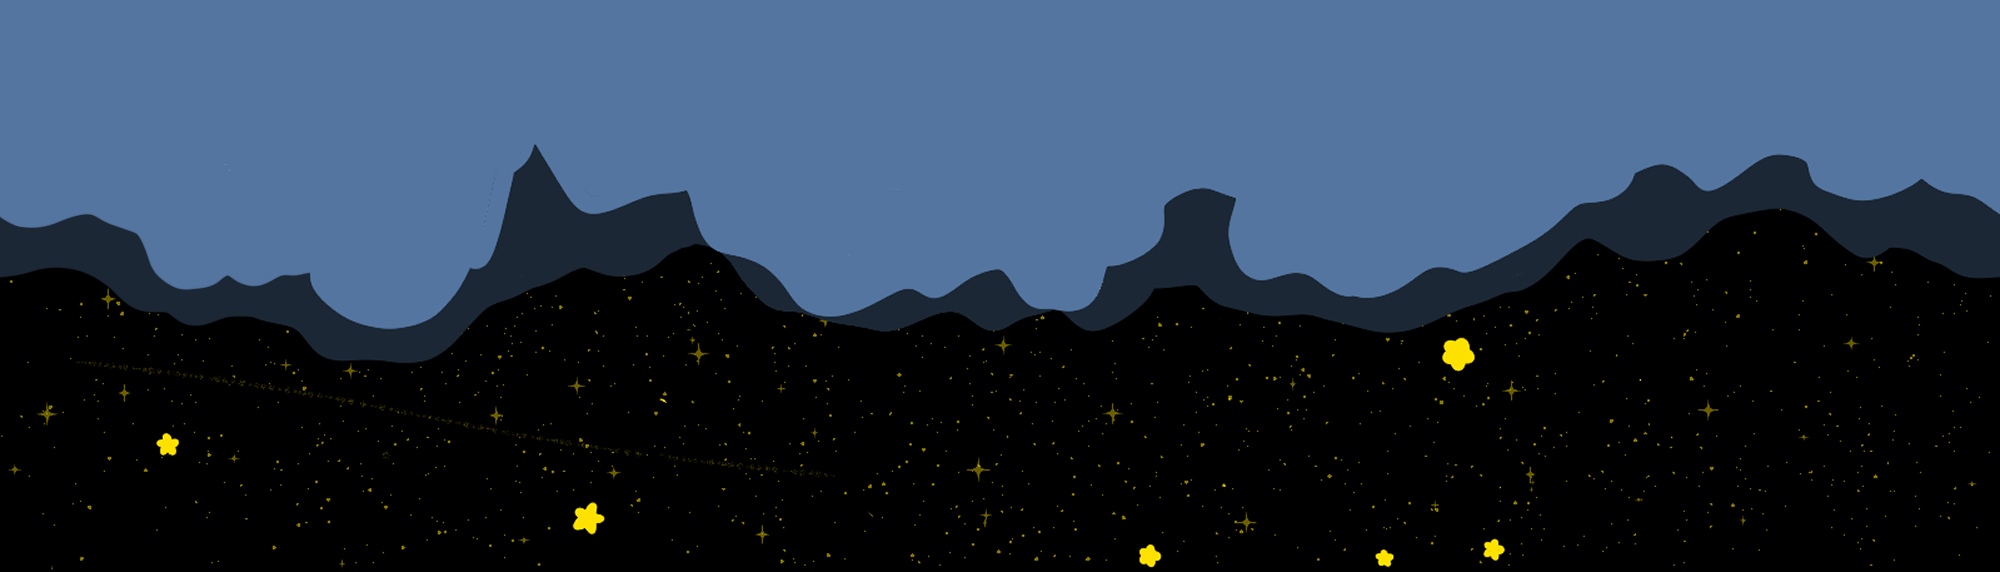
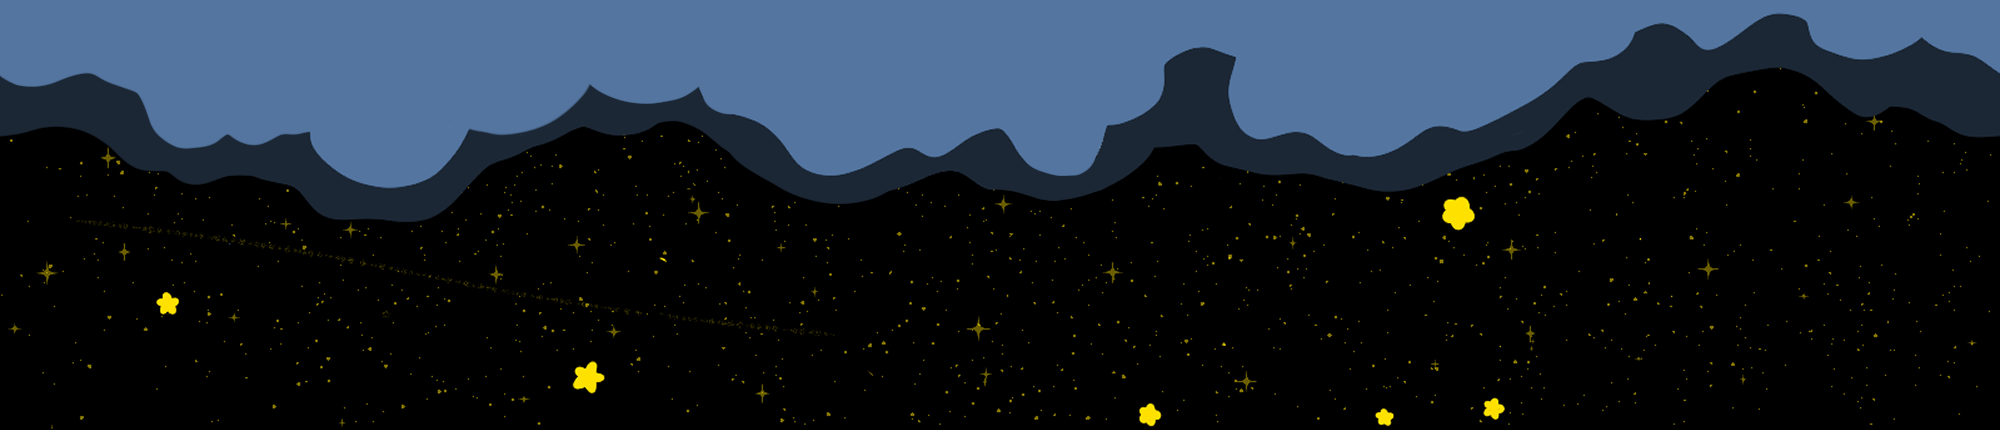
prise des remaarques main

diff --git a/styles/header.css b/styles/header.css
@@ -7,7 +7,7 @@ header {
 	width: calc(100vw - 50px); /* -50px est la somme de 25*2 */
 	height: 60px;
 
-    font-size: calc(14px + .05vw);
+    font-size: calc(18px + .05vw);
     text-align: center;
     font-family: 'GothicBold', 'Arial', sans-serif;
 
@@ -21,8 +21,8 @@ header {
 }
 
 header img {
-    width: 40px;
-    height: 40px;
+    width: 60px;
+    height: 60px;
     transition: transform 0.5s; /* Ajoute une transition pour une animation plus fluide */
 }
 
@@ -38,6 +38,18 @@ a:hover {
 
 header a:hover {
     color: #FFE100; /* Changement de couleur au survol */
+}
+
+@media screen and (max-width: 1400px) {
+	header {
+		font-size: calc(14px + .05vw);
+	}
+
+	header img {
+    width: 40px;
+    height: 40px;
+    transition: transform 0.5s; /* Ajoute une transition pour une animation plus fluide */
+}
 }
 
 @media (max-width: 600px) {

diff --git a/styles/mainPageStyle.css b/styles/mainPageStyle.css
@@ -47,7 +47,7 @@ h2 {
 	justify-content: center;
 	column-gap: 15%;
 	margin-top: 30px;
-	width: 100vw;
+	width: 95vw;
 }
 
 #telescope {
@@ -101,7 +101,7 @@ h2 {
 #coeur-competences {
 	user-select: none;
 	width: 100%;
-	max-width: 600px;
+	max-width: 1000px;
 	margin-top: 20px;
 }
 
@@ -110,7 +110,7 @@ footer{
 	background-size: cover;
 	background-repeat: no-repeat;
 	background-position: center;
-	height: 572px;
+	height: 430px;
 }
 
 @media screen and (max-width: 1600px) {

diff --git a/styles/footer.css b/styles/footer.css
@@ -8,7 +8,7 @@ footer {
     align-items: flex-end;
     justify-content: space-between; /* Ajustement ici pour espacer les éléments sur toute la longueur */
 
-	padding: 0 20px;
+	padding: 0 20px 20px 20px;
 }
 
 footer p{
